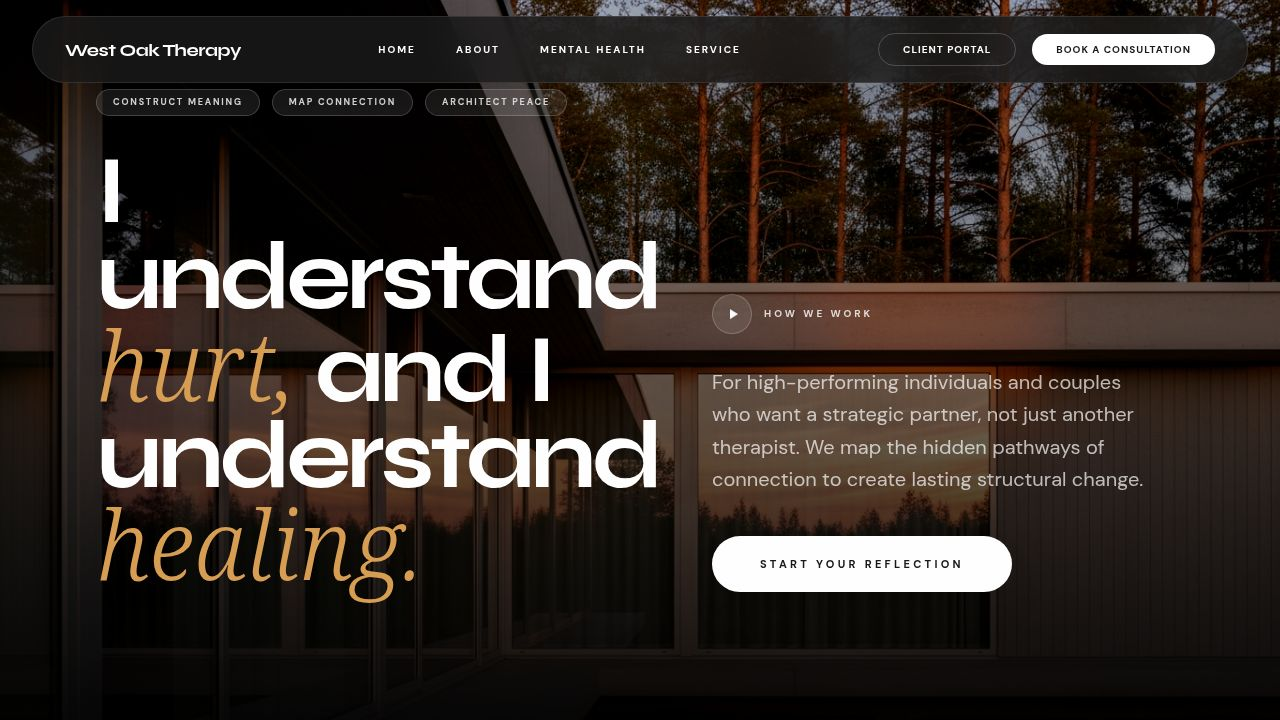
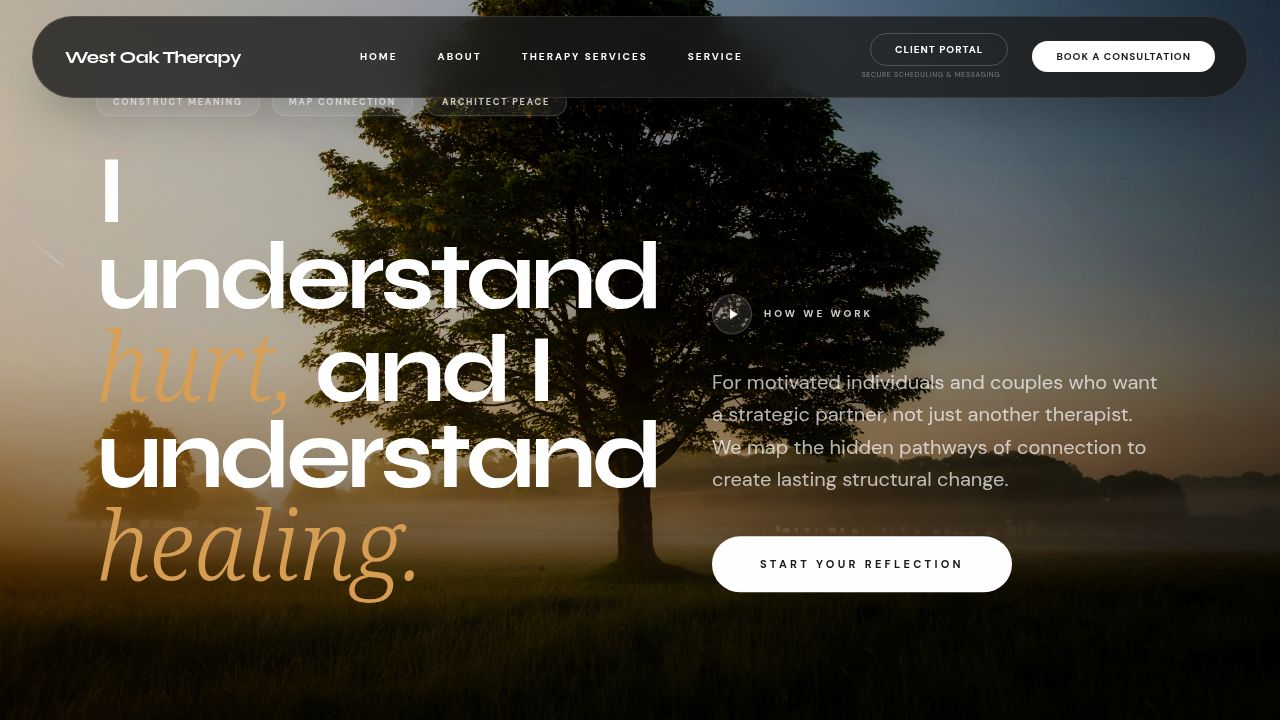
Update website navigation and hero section text
Refactors navigation links, updates hero section copy from "high-performing" to "motivated", and adds a description to the "Client Portal" button.

Replit-Commit-Author: Agent
Replit-Commit-Session-Id: b29306ab-6ed0-4837-be70-055f5f9bbf88
Replit-Commit-Checkpoint-Type: full_checkpoint
Replit-Commit-Event-Id: 59d27aba-fe01-4c11-87d0-8d853b4d8f6a
Replit-Commit-Screenshot-Url: https://storage.googleapis.com/screenshot-production-us-central1/478f31a9-7bd2-4def-b3dd-6878f3b3e616/b29306ab-6ed0-4837-be70-055f5f9bbf88/1BMP4cp
Replit-Helium-Checkpoint-Created: true

diff --git a/client/src/pages/mirror-experience.tsx b/client/src/pages/mirror-experience.tsx
@@ -157,7 +157,7 @@ export default function MirrorExperience() {
           {[
             { label: "Home", action: () => { setStage("splash"); window.scrollTo({ top: 0, behavior: "smooth" }); } },
             { label: "About", action: () => setStage("guide") },
-            { label: "Mental Health", action: () => setStage("mental-health" as any) },
+            { label: "Therapy Services", action: () => setStage("mental-health" as any) },
             { label: "Service", action: () => setStage("service") }
           ].map((item) => (
             <button 
@@ -171,11 +171,15 @@ export default function MirrorExperience() {
         </div>
 
         <div className="flex items-center gap-4">
-          <button 
-            className="hidden md:block px-6 py-2 border border-white/20 text-white rounded-full text-[10px] tracking-[0.1em] uppercase font-bold hover:bg-white hover:text-[#1A1A1A] transition-all duration-500"
-          >
-            Client Portal
-          </button>
+          <div className="hidden md:flex flex-col items-end mr-2">
+            <button 
+              onClick={() => window.open('https://westoaktherapy.sessionshealth.com', '_blank')}
+              className="px-6 py-2 border border-white/20 text-white rounded-full text-[10px] tracking-[0.1em] uppercase font-bold hover:bg-white hover:text-[#1A1A1A] transition-all duration-500"
+            >
+              Client Portal
+            </button>
+            <span className="text-[7px] text-white/40 uppercase tracking-widest mt-1 mr-2">Secure scheduling & messaging</span>
+          </div>
           <button 
             onClick={() => setStage("service")}
             className="hidden md:block px-6 py-2 bg-white text-[#1A1A1A] rounded-full text-[10px] tracking-[0.1em] uppercase font-bold hover:bg-[#D79E54] hover:text-white transition-all duration-500"
@@ -292,7 +296,7 @@ export default function MirrorExperience() {
                   </div>
                   
                   <p className="text-base md:text-xl font-light leading-relaxed text-white/70 mb-8 md:mb-10 max-w-md">
-                    For high-performing individuals and couples who want a strategic partner, not just another therapist. We map the hidden pathways of connection to create lasting structural change.
+                    For motivated individuals and couples who want a strategic partner, not just another therapist. We map the hidden pathways of connection to create lasting structural change.
                   </p>
                   
                   <button 
@@ -660,55 +664,67 @@ export default function MirrorExperience() {
 
               {/* Services Offered Section */}
               <div className="mb-32 md:mb-48 text-left">
-                <h2 className="font-syne font-bold text-3xl md:text-6xl mb-12 md:mb-16 tracking-tight text-[#2D2926]">
-                  Services <br /> <span className="italic font-serif font-light text-[#8C3B24]">Offered.</span>
+                <h2 className="font-syne font-bold text-5xl md:text-7xl mb-12 md:mb-16 tracking-tight leading-[1.1]">
+                  Therapy <br /> <span className="italic font-serif font-light text-[#8C3B24]">Services.</span>
                 </h2>
-                <div className="grid grid-cols-1 sm:grid-cols-2 lg:grid-cols-3 gap-6 md:gap-8">
-                  {[
-                    { 
-                      title: "Individual Therapy", 
-                      content: "Trauma‑informed, evidence‑based care for anxiety, depression, trauma, and co‑occurring substance‑use concerns. Work focuses on measurable goals, nervous‑system regulation, practical skills, and systems‑aware interventions that support lasting change." 
-                    },
-                    { 
-                      title: "Couples and Family Therapy", 
-                      content: "Relational Life Therapy (RLT)–informed work to repair patterns, improve communication, and shift generational dynamics. Sessions emphasize structured conversation practices, safety‑first pacing, and everyday skills for rebuilding connection." 
-                    },
-                    { 
-                      title: "Co‑occurring Disorders Treatment", 
-                      content: "Integrated care for people managing both mental health and substance use. Harm‑reduction strategies, relapse‑prevention planning, and coordinated supports help clients reduce harm while maintaining daily responsibilities." 
-                    },
-                    { 
-                      title: "Trauma‑Informed Care", 
-                      content: "Stabilization, pacing, somatic and narrative approaches tailored to complex presentations. Emphasis on safety, stepwise processing, and tools that preserve functioning while doing deep therapeutic work." 
-                    },
-                    { 
-                      title: "Crisis Assessment", 
-                      content: "Rapid safety assessment, short‑term stabilization, and coordinated responses with system partners when needed. Clear safety planning and next steps to protect well‑being and continuity of care." 
-                    },
-                    { 
-                      title: "Supervision & Consultation", 
-                      content: "Approved supervision and case consultation for clinicians and agencies, focused on trauma‑informed practice and co‑occurring disorders." 
-                    }
-                  ].map((service, i) => (
-                    <motion.div
-                      key={i}
-                      initial={{ opacity: 0, y: 20 }}
-                      whileInView={{ opacity: 1, y: 0 }}
-                      viewport={{ once: true }}
-                      transition={{ delay: i * 0.1, duration: 0.8 }}
-                      className="p-6 md:p-8 bg-white rounded-[1.5rem] md:rounded-[2rem] border border-[#2D2926]/5 shadow-sm hover:shadow-xl hover:shadow-[#2D2926]/5 transition-all duration-500 group flex flex-col justify-between"
-                    >
-                      <div>
-                        <h3 className="font-syne font-bold text-xl md:text-2xl mb-4 md:mb-6 tracking-tight group-hover:text-[#8C3B24] transition-colors duration-500">{service.title}</h3>
-                        <p className="text-sm md:text-base text-[#2D2926]/60 font-light leading-relaxed">
-                          {service.content}
-                        </p>
+                
+                <div className="space-y-24">
+                  {/* Category 1: Individual & Relational */}
+                  <div className="group">
+                    <div className="flex items-center gap-4 mb-8">
+                      <div className="h-px flex-1 bg-[#2D2926]/10" />
+                      <h4 className="text-[10px] tracking-[0.4em] uppercase font-bold text-[#8C3B24] whitespace-nowrap">Individual & Relational Therapy</h4>
+                      <div className="h-px w-12 bg-[#2D2926]/10" />
+                    </div>
+                    <div className="grid grid-cols-1 md:grid-cols-2 gap-8">
+                      <div className="p-8 bg-white border border-[#2D2926]/5 rounded-[2rem] hover:border-[#D79E54]/20 transition-all duration-500 shadow-sm group/card">
+                        <h5 className="font-syne font-bold text-xl mb-4 group-hover/card:text-[#8C3B24] transition-colors">Individual Therapy</h5>
+                        <p className="text-base text-[#2D2926]/60 font-light leading-relaxed">Trauma‑informed, evidence‑based care for anxiety, depression, trauma, and co‑occurring substance‑use concerns. Work focuses on measurable goals and systems‑aware interventions.</p>
                       </div>
-                      <div className="mt-6 md:mt-8 pt-6 border-t border-[#2D2926]/5 flex justify-end">
-                        <ArrowUpRight className="w-5 h-5 text-[#2D2926]/20 group-hover:text-[#8C3B24] transition-colors" />
+                      <div className="p-8 bg-white border border-[#2D2926]/5 rounded-[2rem] hover:border-[#D79E54]/20 transition-all duration-500 shadow-sm group/card">
+                        <h5 className="font-syne font-bold text-xl mb-4 group-hover/card:text-[#8C3B24] transition-colors">Couples and Family Therapy</h5>
+                        <p className="text-base text-[#2D2926]/60 font-light leading-relaxed">Relational Life Therapy (RLT)–informed work to repair patterns, improve communication, and shift generational dynamics with safety‑first pacing.</p>
                       </div>
-                    </motion.div>
-                  ))}
+                    </div>
+                  </div>
+
+                  {/* Category 2: Specialized Clinical */}
+                  <div className="group">
+                    <div className="flex items-center gap-4 mb-8">
+                      <div className="h-px flex-1 bg-[#2D2926]/10" />
+                      <h4 className="text-[10px] tracking-[0.4em] uppercase font-bold text-[#8C3B24] whitespace-nowrap">Specialized Clinical Services</h4>
+                      <div className="h-px w-12 bg-[#2D2926]/10" />
+                    </div>
+                    <div className="grid grid-cols-1 md:grid-cols-3 gap-6">
+                      <div className="p-8 bg-white border border-[#2D2926]/5 rounded-[2rem] hover:border-[#D79E54]/20 transition-all duration-500 shadow-sm group/card">
+                        <h5 className="font-syne font-bold text-lg mb-3 group-hover/card:text-[#8C3B24] transition-colors">Co‑occurring Disorders</h5>
+                        <p className="text-sm text-[#2D2926]/60 font-light leading-relaxed">Integrated treatment for managing mental health and substance‑use challenges simultaneously.</p>
+                      </div>
+                      <div className="p-8 bg-white border border-[#2D2926]/5 rounded-[2rem] hover:border-[#D79E54]/20 transition-all duration-500 shadow-sm group/card">
+                        <h5 className="font-syne font-bold text-lg mb-3 group-hover/card:text-[#8C3B24] transition-colors">Trauma-Informed Care</h5>
+                        <p className="text-sm text-[#2D2926]/60 font-light leading-relaxed">Safety-first approaches to processing significant life events and building resilience.</p>
+                      </div>
+                      <div className="p-8 bg-white border border-[#2D2926]/5 rounded-[2rem] hover:border-[#D79E54]/20 transition-all duration-500 shadow-sm group/card">
+                        <h5 className="font-syne font-bold text-lg mb-3 group-hover/card:text-[#8C3B24] transition-colors">Crisis Assessment</h5>
+                        <p className="text-sm text-[#2D2926]/60 font-light leading-relaxed">Thorough clinical evaluation for stabilization and immediate safety planning.</p>
+                      </div>
+                    </div>
+                  </div>
+
+                  {/* Category 3: Professional */}
+                  <div className="group">
+                    <div className="flex items-center gap-4 mb-8">
+                      <div className="h-px flex-1 bg-[#2D2926]/10" />
+                      <h4 className="text-[10px] tracking-[0.4em] uppercase font-bold text-[#8C3B24] whitespace-nowrap">Professional Services</h4>
+                      <div className="h-px w-12 bg-[#2D2926]/10" />
+                    </div>
+                    <div className="grid grid-cols-1 md:grid-cols-2 gap-8">
+                      <div className="p-8 bg-white border border-[#2D2926]/5 rounded-[2rem] hover:border-[#D79E54]/20 transition-all duration-500 shadow-sm group/card">
+                        <h5 className="font-syne font-bold text-xl mb-4 group-hover/card:text-[#8C3B24] transition-colors">Supervision & Consultation</h5>
+                        <p className="text-base text-[#2D2926]/60 font-light leading-relaxed">Clinical supervision for Associate MFTs and consultation for licensed professionals seeking deeper expertise.</p>
+                      </div>
+                    </div>
+                  </div>
                 </div>
                 <p className="mt-12 md:mt-16 text-center text-[#2D2926]/40 font-light tracking-wide italic text-sm md:text-base">
                   Request an intake call to discuss fit and next steps.
@@ -769,7 +785,7 @@ export default function MirrorExperience() {
                       <div className="pt-8 md:pt-10 border-t border-[#2D2926]/10">
                         <h4 className="text-[10px] tracking-[0.3em] uppercase font-bold text-[#2D2926] mb-4 md:mb-6">Out‑of‑network billing (OON)</h4>
                         <p className="text-sm md:text-base text-[#2D2926]/50 font-light leading-relaxed italic">
-                          An itemized statement (superbill) can be provided upon request to submit to your insurer for possible reimbursement; providing a superbill does not guarantee payment—coverage and reimbursement are determined solely by your insurance plan. It may be helpful to check your plan’s OON reimbursement policy before beginning services so you understand any deductible, co‑insurance, or documentation requirements.
+                          You can request a superbill to submit to your insurance for possible reimbursement. Your insurance plan determines whether they will reimburse you and at what amount. It may be helpful to check your plan’s OON reimbursement policy before beginning services so you understand any deductible, co‑insurance, or documentation requirements.
                         </p>
                       </div>
                     </div>
@@ -809,11 +825,11 @@ export default function MirrorExperience() {
                 <h2 className="font-syne font-bold text-3xl md:text-4xl mb-12 md:mb-16 tracking-tight pb-6 md:pb-8">Practice FAQ</h2>
                 <div className="grid grid-cols-1 md:grid-cols-2 gap-x-12 md:gap-x-16 gap-y-10 md:gap-y-12">
                   {[
-                    { q: "Who is my therapist and what is her approach?", a: "Jennifer Weinmann, LMFT, combines evidence‑based interventions with trauma‑informed, systems‑focused care. Her approach balances measurable treatment planning with relational warmth to help clients heal from trauma and create durable change." },
+                    { q: "What is your therapeutic approach?", a: "Jennifer Weinmann, LMFT, combines evidence‑based interventions with trauma‑informed, systems‑focused care. Her approach balances measurable treatment planning with relational warmth to help clients heal from trauma and create durable change. For more on my background, see the About section." },
                     { q: "What therapeutic models do you use?", a: "Trauma‑informed, evidence‑based modalities tailored to each client. Relational Life Therapy (RLT) is used for couples and family work. Treatment integrates systems thinking and measurable outcome tracking." },
                     { q: "How long is a session?", a: "Sessions are available in 60, 90, or 120 minute lengths. Frequency and duration are individualized—weekly is common at the start, then adjusted based on progress and life demands." },
                     { q: "Why don’t you take insurance?", a: "To preserve clinical autonomy, protect your privacy, and allow for flexible, optimal care tailored to your needs rather than reimbursable constraints. Documentation for out-of-network reimbursement is provided." },
-                    { q: "Is therapy confidential?", a: "Yes. Clinical records are confidential and protected by law. Exceptions include imminent risk of harm or legal requirements, which are reviewed during intake." },
+                    { q: "Is therapy confidential?", a: "Yes. Your information is confidential and protected by law. The only exceptions are situations involving immediate safety concerns or legal requirements, which we review together during intake." },
                     { q: "How do I start?", a: "A brief intake call clarifies needs, availability, and fit. You'll be asked about goals, current concerns, and any immediate safety issues." }
                   ].map((faq, i) => (
                     <div key={i} className="group">
@@ -839,7 +855,7 @@ export default function MirrorExperience() {
                     }}
                     className="hover:text-[#8C3B24] transition-colors duration-500"
                   >
-                    Back to Bio
+                    About Jennifer
                   </motion.button>
                   <motion.button 
                     onClick={() => {
@@ -967,7 +983,7 @@ export default function MirrorExperience() {
                   <span className="cursor-pointer hover:text-[#8C3B24] transition-colors duration-500">Confidentiality</span>
                 </div>
                 <div className="flex gap-12">
-                  <button onClick={() => { setStage("guide"); window.scrollTo({ top: 0, behavior: "smooth" }); }} className="hover:text-[#8C3B24] transition-colors duration-500">Back to Bio</button>
+                  <button onClick={() => { setStage("guide"); window.scrollTo({ top: 0, behavior: "smooth" }); }} className="hover:text-[#8C3B24] transition-colors duration-500">About Jennifer</button>
                   <button onClick={() => { setStage("splash"); window.scrollTo({ top: 0, behavior: "smooth" }); }} className="hover:text-[#8C3B24] transition-colors duration-500">Return to Top</button>
                 </div>
               </div>
